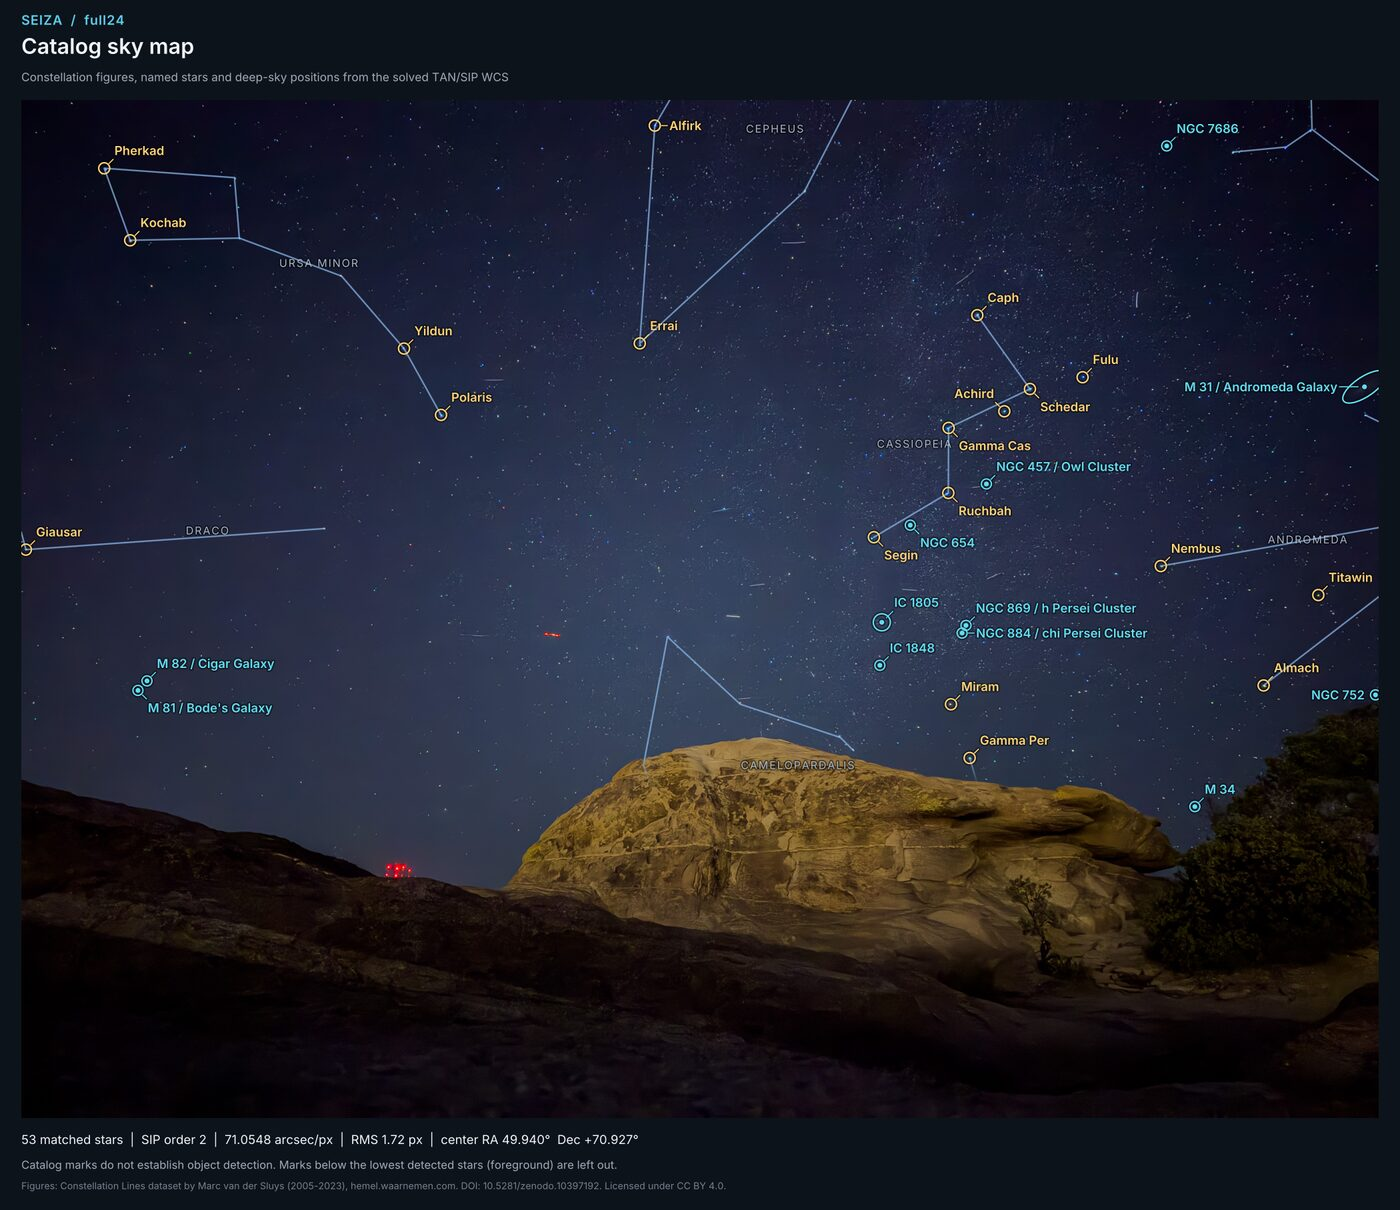
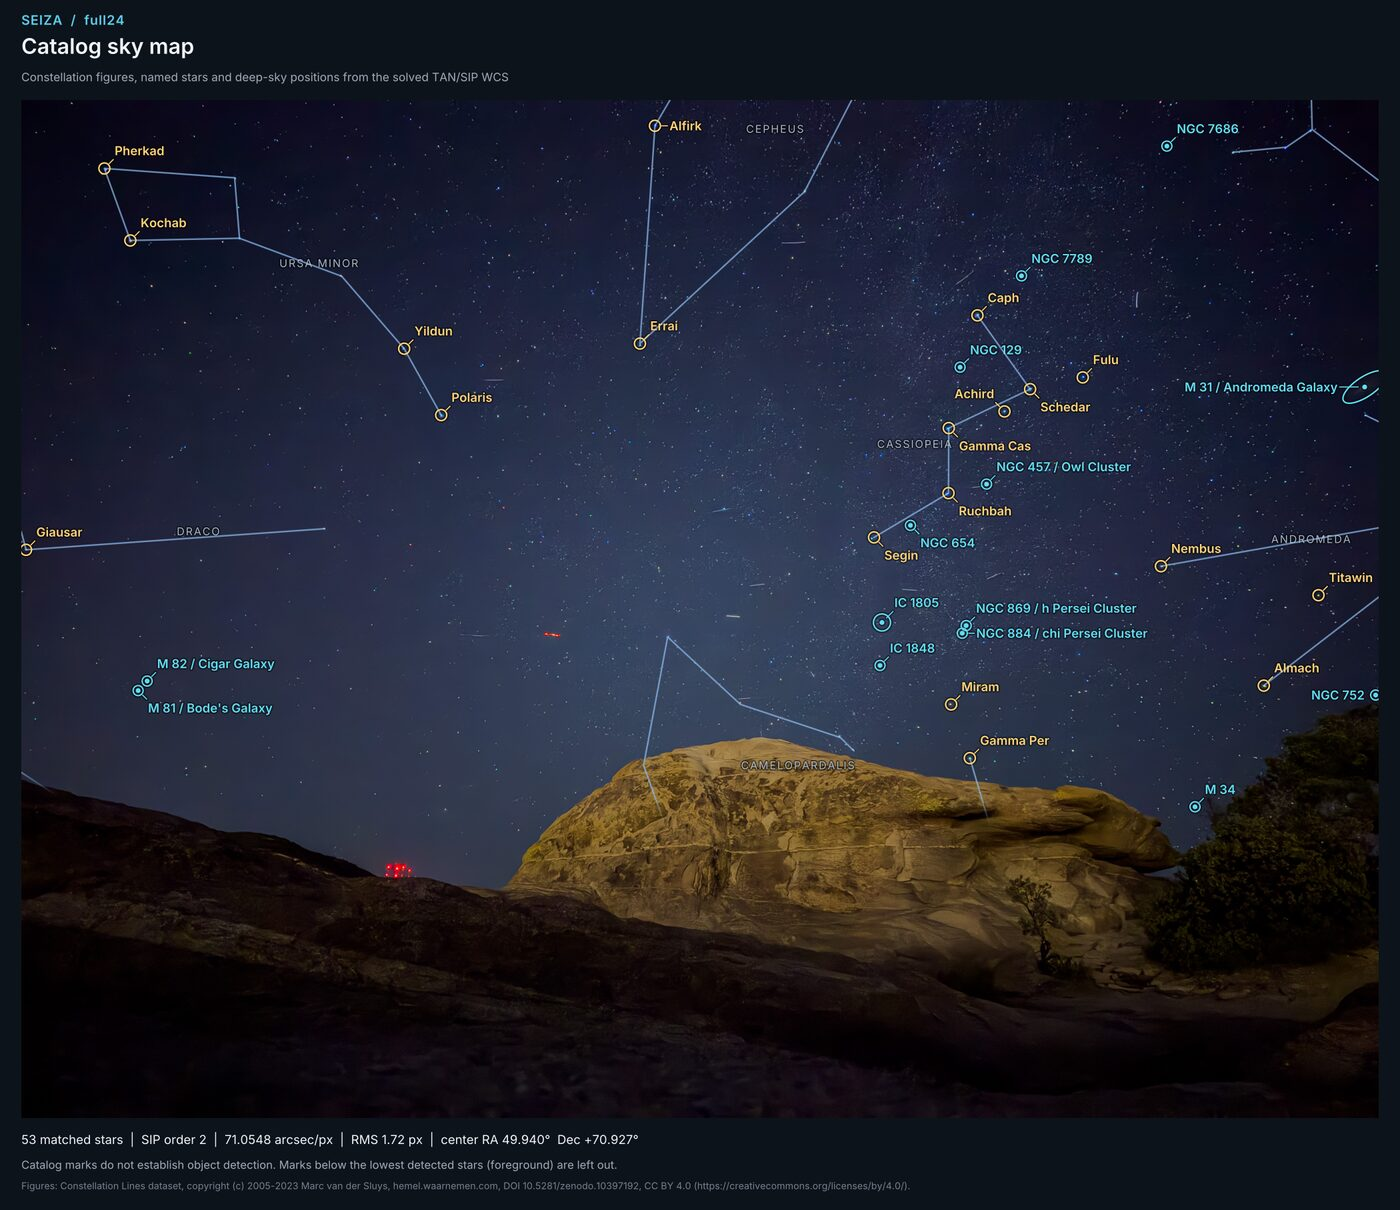
Document --sky-map-foreground and redraw the phone example
The phone example now passes --sky-map-foreground, so the rock stays
clear of labels. Describe the flag, the width range, the label caps,
the Bayer names and the FITS display stretch.

Claude-Session: https://claude.ai/code/session_01DrU5BdFT9q6D6DQuc7a6Jd

diff --git a/seiza-cli/README.md b/seiza-cli/README.md
@@ -44,8 +44,10 @@ seiza image-info phone.jpg
 seiza solve-blind phone.jpg --data data --sip-order 2 \
   --annotate solved.png --wcs solved.wcs
 
-# A labelled chart: constellation figures, named stars, deep-sky objects
-seiza solve-blind phone.jpg --data data --sip-order 2 --sky-map sky-map.png
+# A labelled chart: constellation figures, named stars, deep-sky objects,
+# with marks on the ground below the horizon left out
+seiza solve-blind phone.jpg --data data --sip-order 2 --sky-map sky-map.png \
+  --sky-map-foreground
 
 # Annotate detections or list objects in a solved field
 seiza detect image.jpg --annotate out.png
@@ -146,21 +148,31 @@ narrower telescope fields get larger markers and 300 stars.
 ### Sky map
 
 `--sky-map <out.png>` on `solve` and `solve-blind` writes a chart of the
-solved image (EXIF-oriented, as loaded) for sharing:
+solved image (EXIF-oriented, as loaded) for sharing. FITS and XISF images
+get an automatic display stretch, in colour when the file has colour:
 
 - constellation stick figures (light blue) and constellation names;
-- stars with IAU proper names down to magnitude 4.5 (gold), plus bright
-  figure stars without one, by Bayer designation ("Gamma Cas");
-- deep-sky objects by catalog prominence (cyan), with common names, catalog
-  ellipses for large ones, and "(edge)" when only the extent reaches the
-  frame;
+- stars with IAU proper names down to magnitude 4.5 (gold), plus figure
+  stars of magnitude 3 or brighter without one, by Bayer designation
+  ("Gamma Cas", "Eta Cen"); the brightest 28 get labels;
+- the 14 most prominent deep-sky objects (cyan), with common names,
+  catalog ellipses for large ones, and "(edge)" when only the extent
+  reaches the frame;
 - a title bar, and a footer with matched stars, SIP order, pixel scale, RMS,
   field centre and the line-data credit.
 
 Labels go where they overlap nothing placed before them, brightest stars
-first, and are dropped when nowhere fits. In a photo with foreground, marks
-below the lowest catalog-confirmed detected stars are left out and figure
-lines fade there. `--sky-map-width` sets the width (default 2100 pixels).
+first, and are dropped when nowhere fits. `--sky-map-width` sets the width,
+from 640 to 12000 pixels (default 2100).
+
+`--sky-map-foreground` is for a photo with a horizon, trees or buildings in
+it: marks below the lowest detected stars that a catalog star confirms are
+left out, and figure lines fade there. It looks only at fields over 10°
+across, and only where the stars stop well short of the bottom of the frame
+across several neighbouring columns, so a frame with stars everywhere loses
+nothing. A named star the image shows is kept even below that line. The
+footer says when marks were left out.
+
 Star names come from the star-identifier sidecar and objects from
 `objects.bin`, found next to `--data` or in the standard places (`solve
 --objects` picks the object file); without them the map still has the

diff --git a/README.md b/README.md
@@ -229,7 +229,7 @@ seiza solve-blind image.jpg --data data --min-scale 0.5 --max-scale 15
 seiza solve image.fits --data data --scale 1.26 --objects data
 seiza solve integration.xisf --data data --scale 1.26 --objects data
 seiza solve image.fits --data data --scale 1.26 --satellites-celestrak --annotate tracks.png
-seiza solve-blind phone.jpg --data data --sip-order 2 --sky-map sky-map.png
+seiza solve-blind phone.jpg --data data --sip-order 2 --sky-map sky-map.png --sky-map-foreground
 seiza catalog object --data data "Andromeda Galaxy"
 seiza catalog objects --data data --ra 10.6848 --dec 41.2691 --radius 3 --format json
 seiza catalog star --data data "TYC 5949-2777-1" --format json
@@ -662,8 +662,9 @@ seiza build-blind-index --data stars-deep.bin --output blind-gaia16.idx --index-
 - **Sky maps** — `--sky-map` on `solve` and `solve-blind` draws constellation
   figures, IAU-named stars, and deep-sky objects over the solved image, with
   a title bar and solve statistics
-  ([example](docs/images/phone/phone-sky-map.jpg)). The figures, built into
-  `seiza::constellations`, need no download.
+  ([example](docs/images/phone/phone-sky-map.jpg)). `--sky-map-foreground`
+  leaves out marks on the ground in a photo with a horizon. The figures,
+  built into `seiza::constellations`, need no download.
 - **Packages & CI** — crates.io releases, a guided
   [Windows MSI installer](packaging/windows/README.md), Fedora RPMs and
   Ubuntu debs on GitHub releases, and an integration suite that solves real
